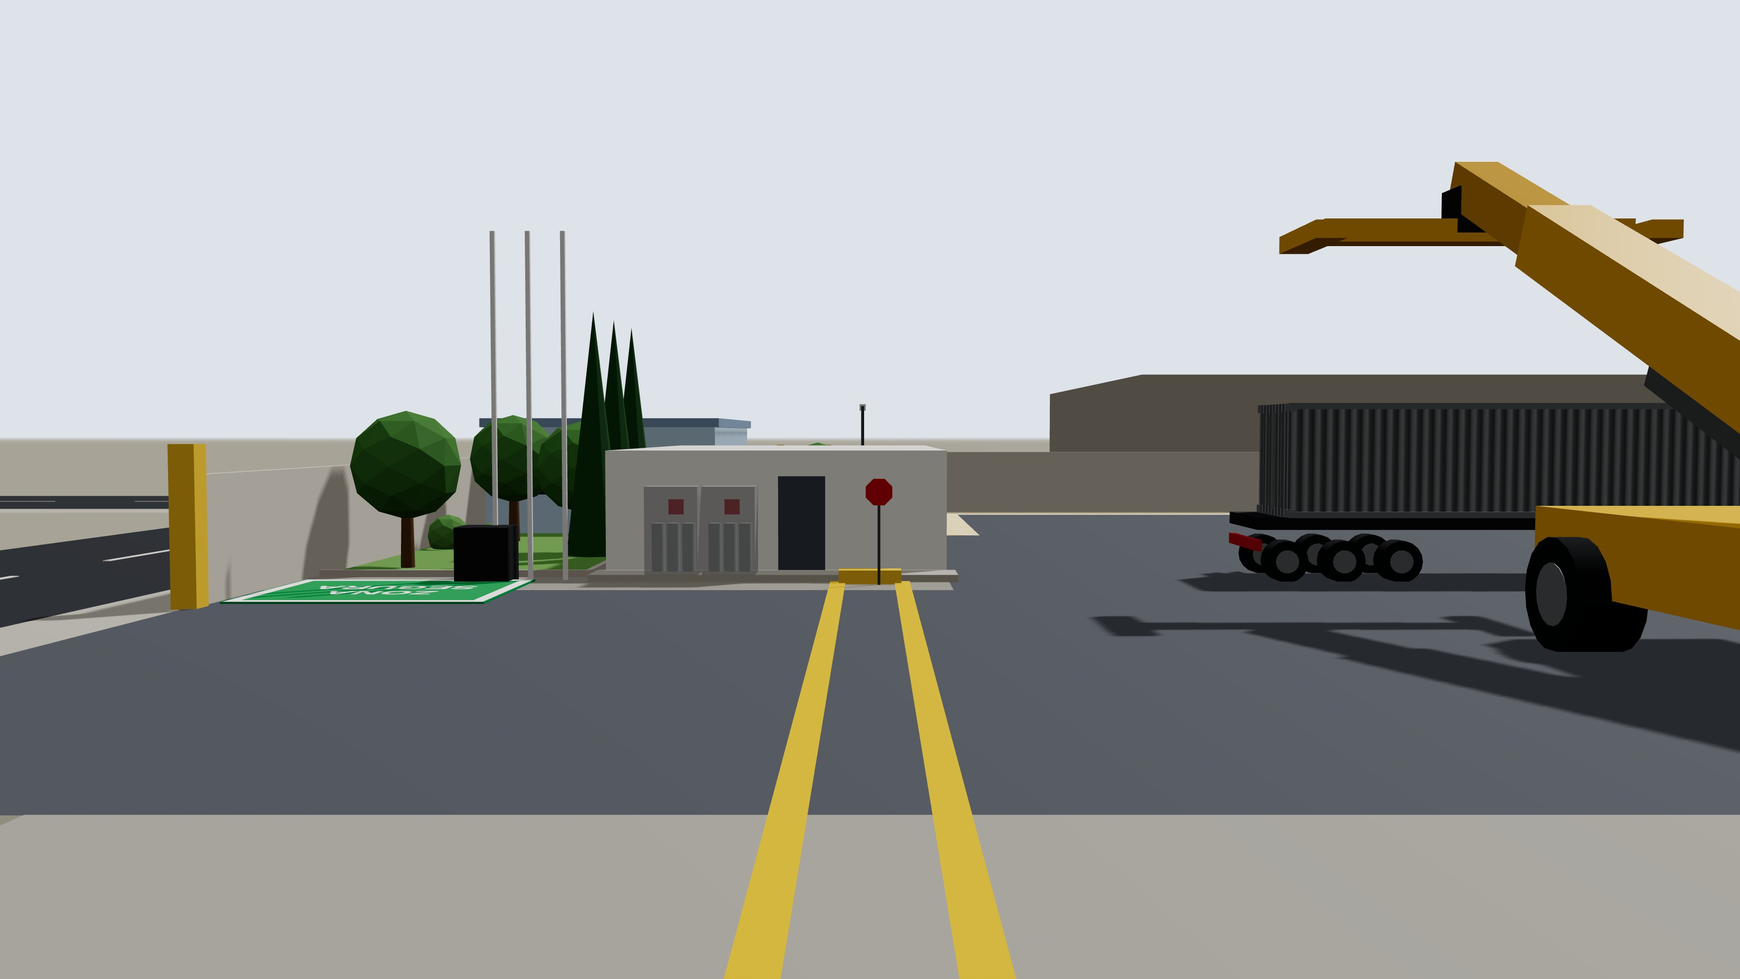
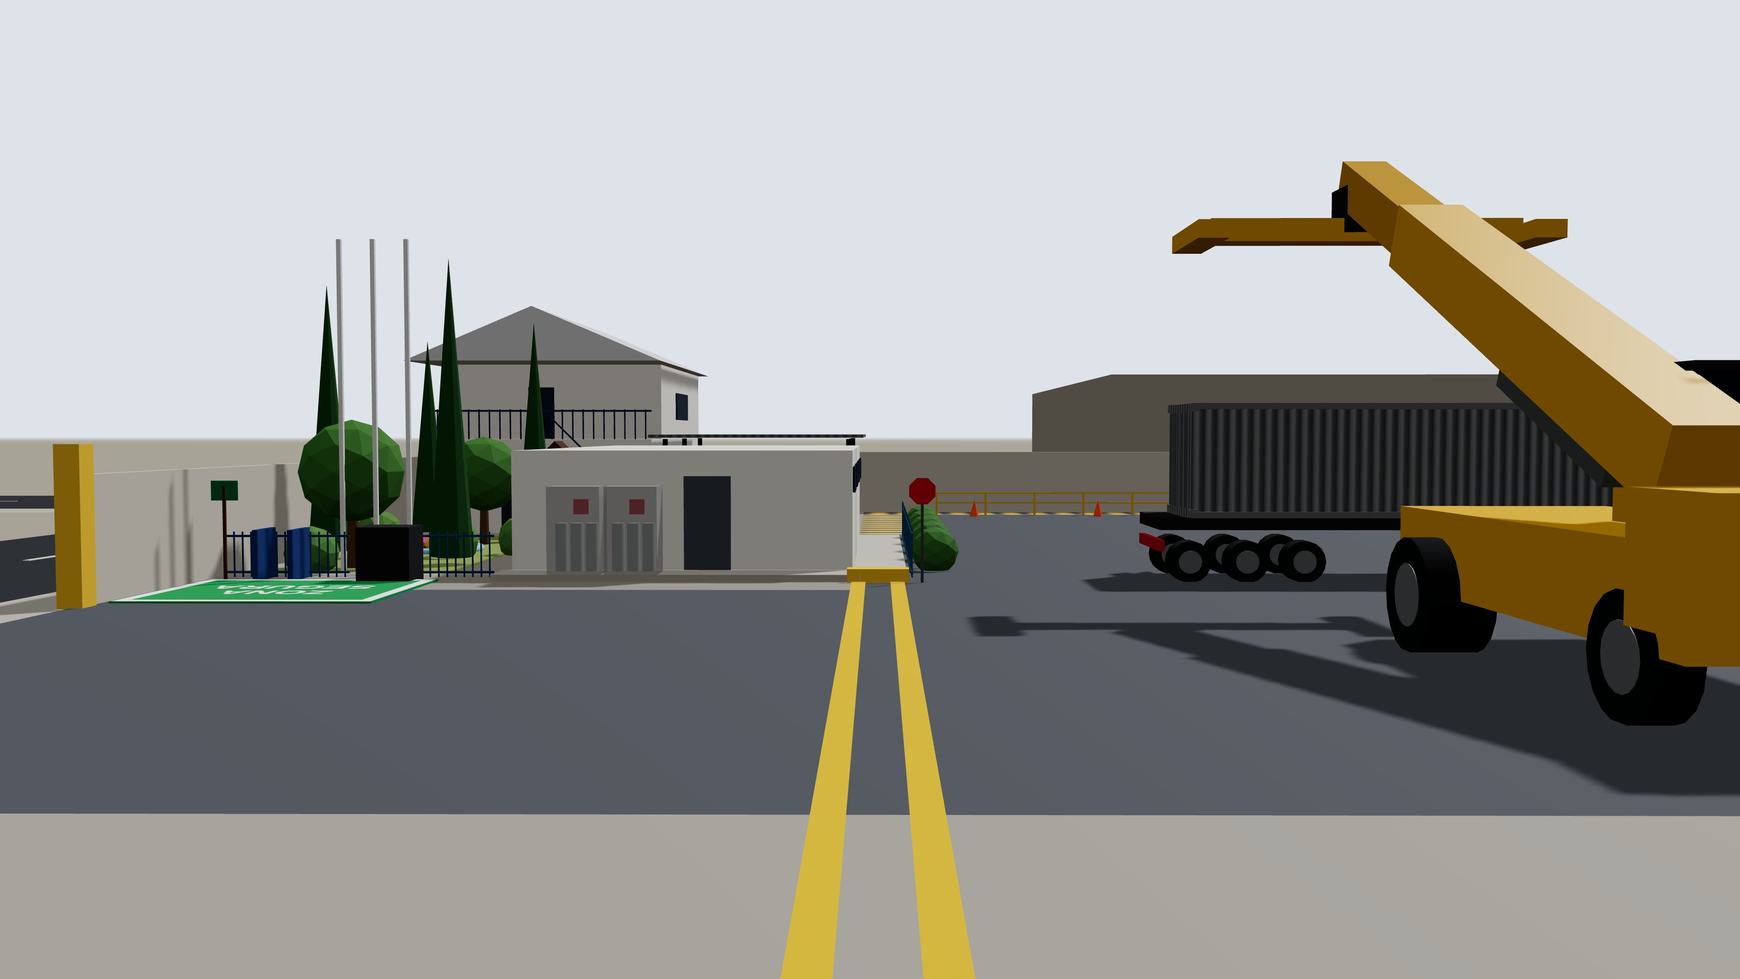
Sector oficinas según fotos: oficina de 2 pisos, descanso techado, jardín y senderos
- Oficina de dos pisos con techo a dos aguas, balcón, escalera exterior,
  puerta y ventana con rejas
- Zona de descanso techada con pasto sintético, bancas, maceteros y pizarras
- Garita de cámaras prefabricada de dos módulos junto a un portón peatonal
  de madera roja
- Pasillo de concreto junto a los camarines con reja azul y arbustos,
  continuado por la doble línea amarilla hasta el alero
- Jardín con cipreses, árboles, macizo de flores, mástiles, reja con puerta,
  jaula de cilindros y señal de salida
- Senderos con franjas amarillas transversales, baranda y conos

Claude-Session: https://claude.ai/code/session_013qYt4wV63U82gmHjwDRceP

Changed region(s): [[0.0, 0.1551, 1.0, 1.0], [0.5938, 0.3722, 0.6562, 0.4653]]

diff --git a/index.html b/index.html
@@ -248,12 +248,12 @@ const R = {
   garita:  { x0: 6,    x1: 8,    z0: 26,    z1: 28,     h: 2.6 },
   banos:   { x0: 0.6,  x1: 5.6,  z0: 50,    z1: 58,     h: 3.2 },
   descanso:{ x0: 85.2, x1: 91.8, z0: 2.4,   z1: 12.7,   h: 1.2 },
-  camaras: { x0: 85.3, x1: 87.3, z0: 2.5,   z1: 4.5,    h: 2.6 },
+  camaras: { x0: 85.4, x1: 88.7, z0: 0.35,  z1: 2.75,   h: 2.7 },
   verde:   { x0: 93.4, x1: 99.7, z0: 13.2,  z1: 27.2,   h: 0.8 },
   segC:    { x0: 0.4,  x1: 6,    z0: 45.4,  z1: 49.7,   h: 0.4 },
   segM:    { x0: 94.4, x1: 99.6, z0: 28.3,  z1: 32.6,   h: 0.4 },
   garAlero:{ x0: 91.4, x1: 93.2, z0: 59.2,  z1: 61.0,   h: 2.6 },
-  peatonal:{ x0: 88.6, x1: 90.6, z0: -0.2,  z1: 2.4,    h: 2.6 },
+  peatonal:{ x0: 88.9, x1: 91.8, z0: -0.2,  z1: 2.4,    h: 2.6 },
 };
 const ZONES = {
   bodega:  { name: 'Bodega principal', dims: '93,8 × 61,7 m', area: 5787,   color: '#55698a',
@@ -277,15 +277,15 @@ const ZONES = {
   banos:   { name: 'Baños de conductores', dims: 'bajo el alero, junto a la muralla de Cervantes', area: null, color: '#7fa7c9',
              note: 'Baños para los conductores, bajo el alero y apegados a la muralla de calle Cervantes. Tamaño supuesto: 5 × 8 m.', short: 'bajo el alero' },
   descanso:{ name: 'Zona de descanso', dims: 'frente a la oficina, bordeada por el sendero', area: null, color: '#c9c1b0',
-             note: 'Zona de descanso con bancas frente a la oficina, bordeada por el sendero peatonal.', short: 'frente a oficina' },
+             note: 'Zona de descanso techada frente a la oficina: bancas de madera, pasto sintético, maceteros y pizarras. Bordeada por el sendero peatonal.', short: 'frente a oficina' },
   camaras: { name: 'Garita de cámaras', dims: 'junto a la zona de descanso, pegada al sendero', area: null, color: '#3d4a5c',
-             note: 'Garita donde están los monitores de las cámaras de seguridad. Tamaño supuesto: 2 × 2 m.', short: 'junto al sendero' },
+             note: 'Caseta prefabricada blanca de dos módulos con ventanas correderas, junto al portón peatonal y al muro de Pedro Montt. Ahí están los monitores de las cámaras.', short: 'junto al sendero' },
   verde:   { name: 'Área verde', dims: 'al costado de los camarines', area: null, color: '#6f9a4f',
-             note: 'Área verde al costado de los camarines, entre la oficina y el camarín de mujeres. El sendero peatonal llega hasta aquí.', short: 'junto a camarines' },
+             note: 'Jardín entre los camarines y el muro de Juan Macaya, frente a la oficina: cipreses, árboles, arbustos, macizo de flores redondo, mástiles y reja azul con puerta.', short: 'junto a camarines' },
   garAlero:{ name: 'Garita bajo el alero', dims: 'esquina del alero, cerca del portón Macaya', area: null, color: '#eef1f3',
              note: 'Garita de guardias bajo el alero, en la esquina del fondo junto al muro de la bodega y cerca del portón Macaya. Es una caseta blanca prefabricada, de unos 1,8 × 1,8 m.', short: 'esquina alero' },
   peatonal:{ name: 'Portón peatonal', dims: 'entre la garita de cámaras y la oficina', area: null, color: '#f2c230',
-             note: 'Acceso peatonal desde calle Pedro Montt, entre la garita de cámaras y la oficina. Entra directo a la zona de descanso. Ancho supuesto: 2 m.', short: 'a Pedro Montt' },
+             note: 'Acceso peatonal desde calle Pedro Montt, entre la garita de cámaras y la oficina. Entra directo a la zona de descanso. Es un portón de madera roja de dos hojas, junto a la garita de cámaras.', short: 'a Pedro Montt' },
   segC:    { name: 'Zona segura Cervantes', dims: 'al costado del portón Cervantes', area: null, color: '#2e9d57',
              note: 'Zona segura para peatones al costado del portón Cervantes, junto a los baños de conductores. Tamaño supuesto: 5,6 × 4,3 m.', short: 'portón Cervantes' },
   segM:    { name: 'Zona segura Macaya', dims: 'al costado del portón Macaya', area: null, color: '#2e9d57',
@@ -457,25 +457,40 @@ const wallMats = [];
   floor(site, O, '#9d9a92', 0.035, 'oficina');
 
   // yellow hatched band (as drawn in the plan)
-  const hatch = hatchTexture();
+  const bars = (vertical) => {
+    const c = document.createElement('canvas'); c.width = c.height = 64;
+    const g = c.getContext('2d'); g.fillStyle = '#5d6168'; g.fillRect(0, 0, 64, 64);
+    g.fillStyle = '#e9c45a'; vertical ? g.fillRect(4, 4, 34, 56) : g.fillRect(4, 4, 56, 34);
+    const t = new THREE.CanvasTexture(c); t.wrapS = t.wrapT = THREE.RepeatWrapping; t.colorSpace = THREE.SRGBColorSpace; return t;
+  };
   // sendero peatonal: along Pedro Montt and Cervantes, then up beside the office sector and into the rest area
   [[0.4, 85, 0.4, 2.2], [0.4, 2.2, 2.2, 26], [83.2, 85, 2.2, 13.9], [85, 93.3, 12.9, 13.9]].forEach(([x0, x1, z0, z1]) => {
-    const t = hatch.clone(); t.needsUpdate = true; t.repeat.set((x1 - x0) / 2, (z1 - z0) / 2);
+    const alongX = (x1 - x0) > (z1 - z0), t = bars(alongX);
+    alongX ? t.repeat.set((x1 - x0) / 1.1, 1) : t.repeat.set(1, (z1 - z0) / 1.1);
     floor(site, { x0, x1, z0, z1 }, null, 0.05, null, new THREE.MeshStandardMaterial({ map: t, roughness: 0.9 }));
   });
+  // yellow railing and cones along the walkway near the office sector, tsunami-route sign on the Cervantes wall
+  for (let x = 68; x <= 82; x += 2) box(site, 0.08, 1.0, 0.08, '#e3b51e', x, 0.5, 2.35);
+  [0.55, 0.95].forEach(y => box(site, 14, 0.06, 0.06, '#e3b51e', 75, y, 2.35, { cast: false }));
+  [70.5, 75.5, 80.5].forEach(x => { const cn = new THREE.Mesh(new THREE.ConeGeometry(0.2, 0.7, 12), mat('#ff6a1a')); cn.position.set(x, 0.35, 3.0); cn.castShadow = true; site.add(cn); });
+  box(site, 0.06, 1.2, 0.9, '#1f7a4d', 0.2, 1.7, 6, { cast: false });
 
   // perimeter wall with portones on Cervantes (z 32–45) and Juan Macaya (z 33–45)
   const pw = '#cfcac0', WH = 2.6;
-  box(site, 88.6, WH, 0.25, pw, 44.3, WH / 2, 0);
-  box(site, W - 90.6, WH, 0.25, pw, (90.6 + W) / 2, WH / 2, 0);
+  box(site, 88.9, WH, 0.25, pw, 44.45, WH / 2, 0);
+  box(site, W - 91.8, WH, 0.25, pw, (91.8 + W) / 2, WH / 2, 0);
   box(site, W, WH, 0.25, pw, CX, WH / 2, D);
   // pedestrian gate on Pedro Montt
-  [88.6, 90.6].forEach(x => box(site, 0.3, 2.9, 0.3, null, x, 1.45, 0, { material: mat('#f2c230'), zone: 'peatonal' }));
-  const leaf = new THREE.Group();
-  box(leaf, 1.9, 0.08, 0.06, '#55595f', 0.95, 2.1, 0); box(leaf, 1.9, 0.08, 0.06, '#55595f', 0.95, 0.15, 0);
-  for (let i = 0; i <= 9; i++) box(leaf, 0.04, 1.95, 0.04, '#55595f', 0.05 + i * 0.2, 1.12, 0, { cast: false });
-  leaf.position.set(88.75, 0, 0.1); leaf.rotation.y = -1.1; site.add(leaf);
-  floor(site, { x0: 88.6, x1: 90.6, z0: 0.15, z1: 2.4 }, '#c9c1b0', 0.075);
+  {
+    const wood = mat('#a8432c', { roughness: 0.8 }), frame = mat('#2a3f66');
+    [88.9, 90.35, 91.8].forEach(x => box(site, 0.18, 2.6, 0.18, null, x, 1.3, 0, { material: frame, zone: 'peatonal' }));
+    [89.62, 91.08].forEach(cx => {
+      box(site, 1.3, 1.9, 0.08, null, cx, 1.15, 0.05, { material: wood, zone: 'peatonal' });
+      for (let k = -2; k <= 2; k++) box(site, 0.03, 1.9, 0.1, '#7e2f1f', cx + k * 0.26, 1.15, 0.06, { cast: false });
+      [0.3, 2.0].forEach(y => box(site, 1.3, 0.06, 0.1, null, cx, y, 0.06, { material: frame, cast: false }));
+    });
+    floor(site, { x0: 88.9, x1: 91.8, z0: 0.15, z1: 2.4 }, '#c9c1b0', 0.075);
+  }
   box(site, 0.25, WH, 32, pw, 0, WH / 2, 16);
   box(site, 0.25, WH, D - 45, pw, 0, WH / 2, 45 + (D - 45) / 2);
   box(site, 0.25, WH, 33, pw, W, WH / 2, 16.5);
@@ -604,10 +619,26 @@ const wallMats = [];
 
   // --- Sector oficinas: oficina + camarines / pañol / camarín mujer
   const of = { x0: 92, x1: 99.7, z0: 0.3, z1: 12.8 };
-  rbox(site, of, 3.6, '#bcd3e6', 0, { zone: 'oficina' });
-  box(site, of.x1 - of.x0 + 0.3, 0.3, of.z1 - of.z0 + 0.3, '#8fa9c2', (of.x0 + of.x1) / 2, 3.75, (of.z0 + of.z1) / 2, { zone: 'oficina' });
-  box(site, 0.08, 1.3, 10, '#2c3a4b', of.x0 - 0.04, 2, (of.z0 + of.z1) / 2, { cast: false });
-  box(site, 6, 1.3, 0.08, '#2c3a4b', (of.x0 + of.x1) / 2, 2, of.z1 + 0.04, { cast: false });
+  {
+    const white = mat('#ecebe6'), ofw = of.x1 - of.x0, ocx = (of.x0 + of.x1) / 2, rail = mat('#2a3f66'), dark = mat('#2c3a4b');
+    rbox(site, of, 3.0, null, 0, { zone: 'oficina', material: white });                                   // ground floor
+    rbox(site, { x0: of.x0, x1: of.x1, z0: of.z0, z1: of.z1 - 2.2 }, 2.8, null, 3.0, { zone: 'oficina', material: white }); // upper floor
+    box(site, ofw, 0.2, 2.2, null, ocx, 3.1, of.z1 - 1.1, { material: white });                       // balcony slab
+    box(site, ofw, 0.06, 0.06, null, ocx, 4.15, of.z1 - 0.05, { material: rail, cast: false });
+    for (let x = of.x0 + 0.2; x < of.x1; x += 0.35) box(site, 0.04, 1.0, 0.04, null, x, 3.7, of.z1 - 0.05, { material: rail, cast: false });
+    const s2 = new THREE.Shape(); s2.moveTo(0, 0); s2.lineTo(ofw + 0.8, 0); s2.lineTo((ofw + 0.8) / 2, 1.8); s2.closePath();
+    const rf = new THREE.Mesh(new THREE.ExtrudeGeometry(s2, { depth: of.z1 - of.z0 + 0.8, bevelEnabled: false }), mat('#d9dcdf', { roughness: 0.6 }));
+    rf.position.set(of.x0 - 0.4, 5.8, of.z0 - 0.2); rf.castShadow = true; rf.userData.zone = 'oficina'; pickables.push(rf); roofG.add(rf);
+    // outside stair up to the balcony, door under it, barred window
+    const st = new THREE.Mesh(new THREE.BoxGeometry(4.3, 0.35, 1.1), mat('#5b3b2e')); st.position.set(of.x0 + 1.6, 1.5, of.z1 + 0.6); st.rotation.z = Math.atan2(3, 3); st.castShadow = true; site.add(st);
+    const hr = new THREE.Mesh(new THREE.BoxGeometry(4.3, 0.05, 0.05), rail); hr.position.set(of.x0 + 1.6, 2.4, of.z1 + 1.15); hr.rotation.z = Math.atan2(3, 3); site.add(hr);
+    box(site, 0.9, 2.1, 0.06, null, of.x0 + 4.6, 1.05, of.z1 + 0.03, { material: dark, cast: false });
+    box(site, 1.4, 1.0, 0.06, null, of.x0 + 6.4, 1.6, of.z1 + 0.03, { material: dark, cast: false });
+    for (let k = 0; k < 6; k++) box(site, 0.03, 1.1, 0.08, null, of.x0 + 5.75 + k * 0.26, 1.6, of.z1 + 0.06, { material: rail, cast: false });
+    box(site, 0.9, 2.0, 0.06, null, of.x0 + 4.2, 4.0, of.z1 - 2.17, { material: dark, cast: false });
+    box(site, 0.06, 1.0, 3.0, null, of.x0 - 0.03, 1.6, (of.z0 + of.z1) / 2, { material: dark, cast: false });
+    box(site, 0.06, 1.0, 3.0, null, of.x0 - 0.03, 4.4, (of.z0 + of.z1) / 2 - 1, { material: dark, cast: false });
+  }
   rbox(site, { x0: 85, x1: 93, z0: 14, z1: 21.5 }, 3, '#eeeeea', 0, { zone: 'oficina' });
   rbox(site, { x0: 85, x1: 93, z0: 21.5, z1: 24.8 }, 3, '#e6e6e1', 0, { zone: 'oficina' });
   rbox(site, { x0: 85, x1: 93, z0: 24.8, z1: 27.2 }, 3, '#eeeeea', 0, { zone: 'oficina' });
@@ -647,11 +678,21 @@ const wallMats = [];
   // --- Pedestrian path (double yellow line) from the alero to the camarines building, and details seen in the photo
   {
     const yl = mat('#e9b91f');
-    floor(site, { x0: 85.9, x1: 86.25, z0: 28.4, z1: R.alero.z1 - 1.15 }, null, 0.062, null, yl);
-    floor(site, { x0: 87.35, x1: 87.7, z0: 28.4, z1: R.alero.z1 - 1.15 }, null, 0.062, null, yl);
+    floor(site, { x0: 83.8, x1: 84.12, z0: 27.6, z1: R.alero.z1 - 1.15 }, null, 0.062, null, yl);
+    floor(site, { x0: 84.68, x1: 85.0, z0: 27.6, z1: R.alero.z1 - 1.15 }, null, 0.062, null, yl);
+    // concrete walkway along the camarines (rest area → alero), with a blue fence and shrubs toward the yard
+    floor(site, { x0: 83.7, x1: 85, z0: 13.9, z1: 27.6 }, '#c4c0b6', 0.07);
+    const fenceM = mat('#3d6f8f', { metalness: 0.3 });
+    [0.15, 1.05].forEach(y => box(site, 0.05, 0.05, 13.4, null, 83.6, y, 20.7, { material: fenceM, cast: false }));
+    for (let z = 14.1; z < 27.4; z += 0.22) box(site, 0.03, 1.15, 0.03, null, 83.6, 0.6, z, { material: fenceM, cast: false });
+    for (let z = 15; z < 27; z += 2.6) { const sh = new THREE.Mesh(new THREE.IcosahedronGeometry(0.6, 1), mat('#4d7a3c', { flatShading: true })); sh.position.set(83.0, 0.5, z); sh.castShadow = true; site.add(sh); }
+    for (let z = 15.5; z < 26.5; z += 3.4) {
+      box(site, 0.06, 0.6, 2.0, '#2c3a4b', 84.97, 2.3, z, { cast: false });
+      for (let k = 0; k < 8; k++) box(site, 0.02, 0.62, 0.02, '#2a3f66', 84.95, 2.3, z - 0.9 + k * 0.26, { cast: false });
+    }
     // concrete step along the camarines front, yellow steps at the path end
     box(site, 8.4, 0.2, 1.2, '#b9b5ac', 89, 0.1, 27.8);
-    box(site, 1.4, 0.35, 0.5, '#f2c230', 86.8, 0.17, 28.6);
+    box(site, 1.4, 0.35, 0.5, '#f2c230', 84.4, 0.17, 28.3);
     // door and two gas-cylinder cages in front of the building
     box(site, 1.1, 2.2, 0.06, '#5b6470', 88.4, 1.3, 27.23, { cast: false });
     [90.0, 91.3].forEach(x => {
@@ -660,13 +701,8 @@ const wallMats = [];
       box(site, 0.35, 0.35, 0.02, '#d6362b', x, 1.7, 27.54, { cast: false });
     });
     // "PARE · MIRE Y ESCUCHE" stop sign at the end of the path
-    box(site, 0.06, 2.0, 0.06, '#55595f', 86.6, 1.0, 28.9);
-    const stop = new THREE.Mesh(new THREE.CylinderGeometry(0.32, 0.32, 0.04, 8), mat('#d6362b')); stop.rotation.x = Math.PI / 2; stop.rotation.y = Math.PI / 8; stop.position.set(86.6, 2.1, 28.92); site.add(stop);
-    // flagpoles and cypresses beside the building
-    [93.8, 94.6, 95.4].forEach(x => box(site, 0.1, 8, 0.1, '#e8e8e8', x, 4, 27.9));
-    [[93.6, 25.4], [93.6, 22.6], [93.6, 19.8]].forEach(([x, z]) => {
-      const c = new THREE.Mesh(new THREE.ConeGeometry(0.7, 6, 10), mat('#2f5a2c', { flatShading: true })); c.position.set(x, 3.4, z); c.castShadow = true; site.add(c);
-    });
+    box(site, 0.06, 2.0, 0.06, '#55595f', 83.4, 1.0, 28.4);
+    const stop = new THREE.Mesh(new THREE.CylinderGeometry(0.32, 0.32, 0.04, 8), mat('#d6362b')); stop.rotation.x = Math.PI / 2; stop.rotation.y = Math.PI / 8; stop.position.set(83.4, 2.1, 28.42); site.add(stop);
     // waste bin
     box(site, 1.2, 1.3, 1.0, '#2b2e33', 95.5, 0.65, 28.3);
   }
@@ -698,31 +734,63 @@ const wallMats = [];
     cn.position.set(x, 2.9 * s, z); cn.castShadow = true; site.add(cn);
   };
   const Dz = R.descanso, Vz = R.verde, Cm = R.camaras;
-  floor(site, Dz, '#c9c1b0', 0.07, 'descanso');
-  floor(site, Vz, '#6f9a4f', 0.07, 'verde');
-  box(site, Vz.x1 - Vz.x0, 0.2, 0.15, '#bdb7ae', (Vz.x0 + Vz.x1) / 2, 0.1, Vz.z1, { cast: false });
-  box(site, 0.15, 0.2, Vz.z1 - Vz.z0 - 1.2, '#bdb7ae', Vz.x0, 0.1, (Vz.z0 + Vz.z1) / 2 + 0.6, { cast: false });
+  // rest area: covered by a corrugated roof on steel posts, artificial grass, wooden benches, planters, notice boards
+  floor(site, Dz, '#b9b5ac', 0.07, 'descanso');
+  floor(site, { x0: 86.6, x1: 90.6, z0: 5.2, z1: 10.6 }, '#3f7a3a', 0.08);
+  {
+    const post = mat('#2b2e33');
+    [[85.4, 3.0], [91.6, 3.0], [85.4, 7.6], [91.6, 7.6], [85.4, 12.4], [91.6, 12.4]].forEach(([x, z]) => box(site, 0.15, 3.2, 0.15, null, x, 1.6, z, { material: post }));
+    const roof = new THREE.Mesh(new THREE.BoxGeometry(Dz.x1 - Dz.x0 + 0.6, 0.1, Dz.z1 - Dz.z0 + 0.4), corrugated('#a3a8ad', 7));
+    roof.position.set((Dz.x0 + Dz.x1) / 2, 3.3, (Dz.z0 + Dz.z1) / 2); roof.castShadow = true; roof.userData.zone = 'descanso'; pickables.push(roof); roofG.add(roof);
+    box(site, 5.6, 0.25, 0.4, '#e3b51e', 88.9, 0.12, 12.85, { cast: false });                       // yellow curb
+  }
   const bench = (x, z, rotY) => {
-    const g = new THREE.Group();
-    box(g, 1.8, 0.08, 0.45, '#8a6440', 0, 0.45, 0); box(g, 1.8, 0.4, 0.06, '#8a6440', 0, 0.75, -0.22);
-    box(g, 0.08, 0.45, 0.4, '#3c4148', -0.8, 0.22, 0); box(g, 0.08, 0.45, 0.4, '#3c4148', 0.8, 0.22, 0);
+    const g = new THREE.Group(), wd = mat('#9c4a2e', { roughness: 0.7 }), fr = mat('#2a3f66');
+    for (let k = 0; k < 3; k++) box(g, 1.9, 0.05, 0.12, null, 0, 0.46, -0.16 + k * 0.16, { material: wd });
+    for (let k = 0; k < 3; k++) box(g, 1.9, 0.1, 0.04, null, 0, 0.62 + k * 0.14, -0.26, { material: wd, cast: false });
+    [-0.85, 0.85].forEach(px => { box(g, 0.05, 0.46, 0.5, null, px, 0.23, 0, { material: fr }); box(g, 0.05, 0.5, 0.05, null, px, 0.7, -0.27, { material: fr, cast: false }); });
     g.position.set(x, 0, z); g.rotation.y = rotY; site.add(g);
   };
-  bench(86.3, 6.2, Math.PI / 2); bench(86.3, 9.6, Math.PI / 2); bench(90.9, 7.4, -Math.PI / 2); bench(90.9, 10.6, -Math.PI / 2);
-  box(site, 1.2, 0.75, 1.2, '#8a6440', 88.6, 0.375, 8.2);
-  tree(88.6, 11.4, 0.7);
-  tree(97.8, 16.6, 0.9); tree(94.8, 21, 0.85); tree(98.3, 25.2, 0.9);
-  [[99, 19.4], [94.3, 17.4], [96.8, 23.2]].forEach(([x, z]) => {
-    const sh = new THREE.Mesh(new THREE.IcosahedronGeometry(0.6, 1), mat('#5f8c45', { flatShading: true }));
-    sh.position.set(x, 0.45, z); sh.castShadow = true; site.add(sh);
+  bench(87.0, 7.0, Math.PI / 2); bench(87.0, 9.4, Math.PI / 2); bench(90.2, 7.0, -Math.PI / 2); bench(90.2, 9.4, -Math.PI / 2);
+  box(site, 1.4, 0.05, 0.7, '#2b2e33', 88.6, 0.75, 6.0); box(site, 0.08, 0.75, 0.08, '#2b2e33', 88.6, 0.37, 6.0);
+  [[86.2, 5.0], [91.0, 11.2], [86.2, 11.6], [91.0, 5.0]].forEach(([x, z]) => {
+    box(site, 0.7, 0.6, 0.7, '#cfcac0', x, 0.3, z);
+    const pl = new THREE.Mesh(new THREE.IcosahedronGeometry(0.5, 1), mat('#3f7a3a', { flatShading: true })); pl.position.set(x, 1.0, z); site.add(pl);
   });
-  rbox(site, Cm, 2.3, '#e6e0d3', 0, { zone: 'camaras' });
-  box(site, 2.4, 0.2, 2.4, '#3d4a5c', (Cm.x0 + Cm.x1) / 2, 2.4, (Cm.z0 + Cm.z1) / 2, { zone: 'camaras' });
-  box(site, 1.4, 0.8, 0.06, '#2c3a4b', (Cm.x0 + Cm.x1) / 2, 1.5, Cm.z1 + 0.03, { cast: false });
-  box(site, 0.06, 0.8, 1.4, '#2c3a4b', Cm.x0 - 0.03, 1.5, (Cm.z0 + Cm.z1) / 2, { cast: false });
-  box(site, 0.12, 4.5, 0.12, '#55595f', Cm.x1 - 0.2, 2.25, Cm.z0 + 0.2);
-  box(site, 0.25, 0.25, 0.5, '#e8e8e8', Cm.x1 - 0.2, 4.45, Cm.z0 - 0.1);
-
+  box(site, 3.2, 1.2, 0.06, '#dfe9f2', 88.6, 1.6, 3.4, { cast: false }); box(site, 3.3, 1.3, 0.04, '#2f7f8f', 88.6, 1.6, 3.37, { cast: false });
+  [87.0, 90.2].forEach(x => box(site, 0.06, 1.6, 0.06, '#2b2e33', x, 0.8, 3.35));
+  box(site, 0.8, 1.6, 0.7, '#e8e8e6', 85.9, 0.8, 11.0);
+  // cameras booth: white prefab, two modules, sliding windows, next to the red gate
+  {
+    const cx = (Cm.x0 + Cm.x1) / 2, cz = (Cm.z0 + Cm.z1) / 2, wM = mat('#f1f2f0', { roughness: 0.4 });
+    box(site, Cm.x1 - Cm.x0, 2.3, Cm.z1 - Cm.z0, null, cx, 0.25 + 1.15, cz, { material: wM, zone: 'camaras' });
+    [Cm.x0 + 0.1, Cm.x1 - 0.1].forEach(x => [Cm.z0 + 0.1, Cm.z1 - 0.1].forEach(z => box(site, 0.08, 0.25, 0.08, '#2b2e33', x, 0.12, z)));
+    box(site, Cm.x1 - Cm.x0 + 0.2, 0.12, Cm.z1 - Cm.z0 + 0.5, '#e3e5e6', cx, 2.62, cz + 0.15, { zone: 'camaras' });
+    [cx - 0.82, cx + 0.82].forEach(x => { box(site, 1.3, 0.75, 0.05, '#1f2a36', x, 1.75, Cm.z1 + 0.03, { cast: false }); box(site, 1.42, 0.87, 0.04, '#cfd6db', x, 1.75, Cm.z1 + 0.02, { cast: false }); });
+    box(site, 0.05, 1.9, 0.8, '#2f5d8c', Cm.x0 - 0.03, 1.2, cz, { cast: false });
+    [[cx + 1.4, Cm.z1 + 0.6], [Cm.x1 + 0.4, Cm.z1 + 0.3]].forEach(([x, z]) => { const cn = new THREE.Mesh(new THREE.ConeGeometry(0.18, 0.65, 12), mat('#ff6a1a')); cn.position.set(x, 0.33, z); site.add(cn); });
+  }
+  // garden between the camarines and the Juan Macaya wall
+  floor(site, Vz, '#a9a59c', 0.07, 'verde');                                        // gravel
+  floor(site, { x0: 94.6, x1: 99.1, z0: 14.6, z1: 26.4 }, '#8f9d58', 0.075);       // grass
+  {
+    const ring = new THREE.Mesh(new THREE.TorusGeometry(1.25, 0.12, 6, 24), mat('#8fd0e6')); ring.rotation.x = Math.PI / 2; ring.position.set(97.0, 0.12, 20.2); site.add(ring);
+    for (let k = 0; k < 10; k++) { const fl = new THREE.Mesh(new THREE.IcosahedronGeometry(0.22, 0), mat(k % 2 ? '#e05fa0' : '#f2c230')); fl.position.set(97 + Math.cos(k) * 0.7, 0.3, 20.2 + Math.sin(k * 1.7) * 0.7); site.add(fl); }
+    const cypress = (x, z, h) => { const c = new THREE.Mesh(new THREE.ConeGeometry(0.55, h, 10), mat('#2f5a2c', { flatShading: true })); c.position.set(x, h / 2 + 0.3, z); c.castShadow = true; site.add(c); };
+    cypress(95.2, 24.6, 7.5); cypress(98.9, 23.0, 7); cypress(95.0, 16.6, 6.5); cypress(98.6, 15.6, 6);
+    tree(97.4, 25.4, 0.85); tree(96.2, 18.0, 0.75);
+    [[94.2, 21.5], [99.0, 19.0], [95.8, 22.4], [98.2, 26.0], [94.4, 15.2]].forEach(([x, z]) => { const sh = new THREE.Mesh(new THREE.IcosahedronGeometry(0.65, 1), mat('#5f8c45', { flatShading: true })); sh.position.set(x, 0.5, z); sh.castShadow = true; site.add(sh); });
+    [95.6, 96.4, 97.2].forEach(x => box(site, 0.1, 8, 0.1, '#e8e8e8', x, 4, 26.6));                        // flagpoles
+    const fM = mat('#2f5d8c', { metalness: 0.3 });
+    [[93.4, 95.6], [96.8, 99.7]].forEach(([x0, x1]) => {                                                   // front fence with gate gap
+      [0.15, 1.0].forEach(y => box(site, x1 - x0, 0.05, 0.05, null, (x0 + x1) / 2, y, 27.3, { material: fM, cast: false }));
+      for (let x = x0 + 0.1; x < x1; x += 0.2) box(site, 0.03, 1.1, 0.03, null, x, 0.55, 27.3, { material: fM, cast: false });
+    });
+    box(site, 0.9, 1.9, 0.7, '#3d4f6a', 93.5, 0.95, 17.0);                                               // gas cylinder cage (red cylinders)
+    [-0.2, 0.2].forEach(dz => { const cy = new THREE.Mesh(new THREE.CylinderGeometry(0.15, 0.15, 1.3, 12), mat('#d6362b')); cy.position.set(93.5, 0.7, 17.0 + dz); site.add(cy); });
+    [97.8, 98.6].forEach(x => box(site, 0.12, 1.2, 1.0, '#2f4f8a', x, 0.6, 27.75));                        // blue pallets on edge
+    box(site, 0.06, 2.2, 0.06, '#5b3b2e', 99.3, 1.1, 28.2); box(site, 0.6, 0.45, 0.04, '#1f7a4d', 99.3, 2.1, 28.18, { cast: false }); // SALIDA sign
+  }
 
   // --- Estacionamiento: parallel stalls against the bodega wall, with a driving lane beside them toward the back
   {
@@ -747,15 +815,15 @@ const wallMats = [];
   lbl('gate', 12, 5.2, 27);
   lbl('garita', 7, 3.8, 27);
   lbl('banos', 3.1, 4.8, 54);
-  lbl('descanso', 88.4, 2.2, 7);
-  lbl('camaras', 86.3, 5.4, 3.5);
+  lbl('descanso', 88.6, 2.6, 8.2);
+  lbl('camaras', 87.0, 4.4, 1.6);
   lbl('verde', 96.5, 4.5, 19);
-  lbl('peatonal', 89.6, 3.6, 0);
+  lbl('peatonal', 90.35, 3.4, 0);
   lbl('segC', 3.2, 2.4, 47.5);
   lbl('segM', 97, 2.4, 30.4);
   lbl('garAlero', 92.3, 4.4, 60.1);
   label(site, 'Sendero peatonal', 'lbl tag', 40, 1.2, 1.3);
-  label(site, 'Oficina', 'lbl tag', (of.x0 + of.x1) / 2, 4.8, 6.5);
+  label(site, 'Oficina', 'lbl tag', (of.x0 + of.x1) / 2, 8.2, 6.5);
   label(site, 'Camarines · Pañol · Camarín mujer', 'lbl tag', 89, 4.4, 20.6);
 
   // --- Dimensions

diff --git a/README.md b/README.md
@@ -27,6 +27,10 @@ Renders en 4K (3840 × 2160) en la carpeta `renders/`:
 | Pasillo con los pilares del centro | `renders/10-pilares.jpg` |
 | Sendero peatonal del alero a los camarines | `renders/11-sendero.jpg` |
 | Estacionamiento junto a la bodega | `renders/12-estacionamiento.jpg` |
+| Zona de descanso techada | `renders/13-descanso.jpg` |
+| Jardín visto desde la oficina | `renders/14-jardin.jpg` |
+| Pasillo junto a los camarines | `renders/15-pasillo-camarines.jpg` |
+| Garita de cámaras y portón peatonal | `renders/16-garita-camaras.jpg` |
 
 Para generar capturas en alta resolución desde el navegador, abre la página con `#hd` al final de la dirección (sombras y resolución más altas).
 
